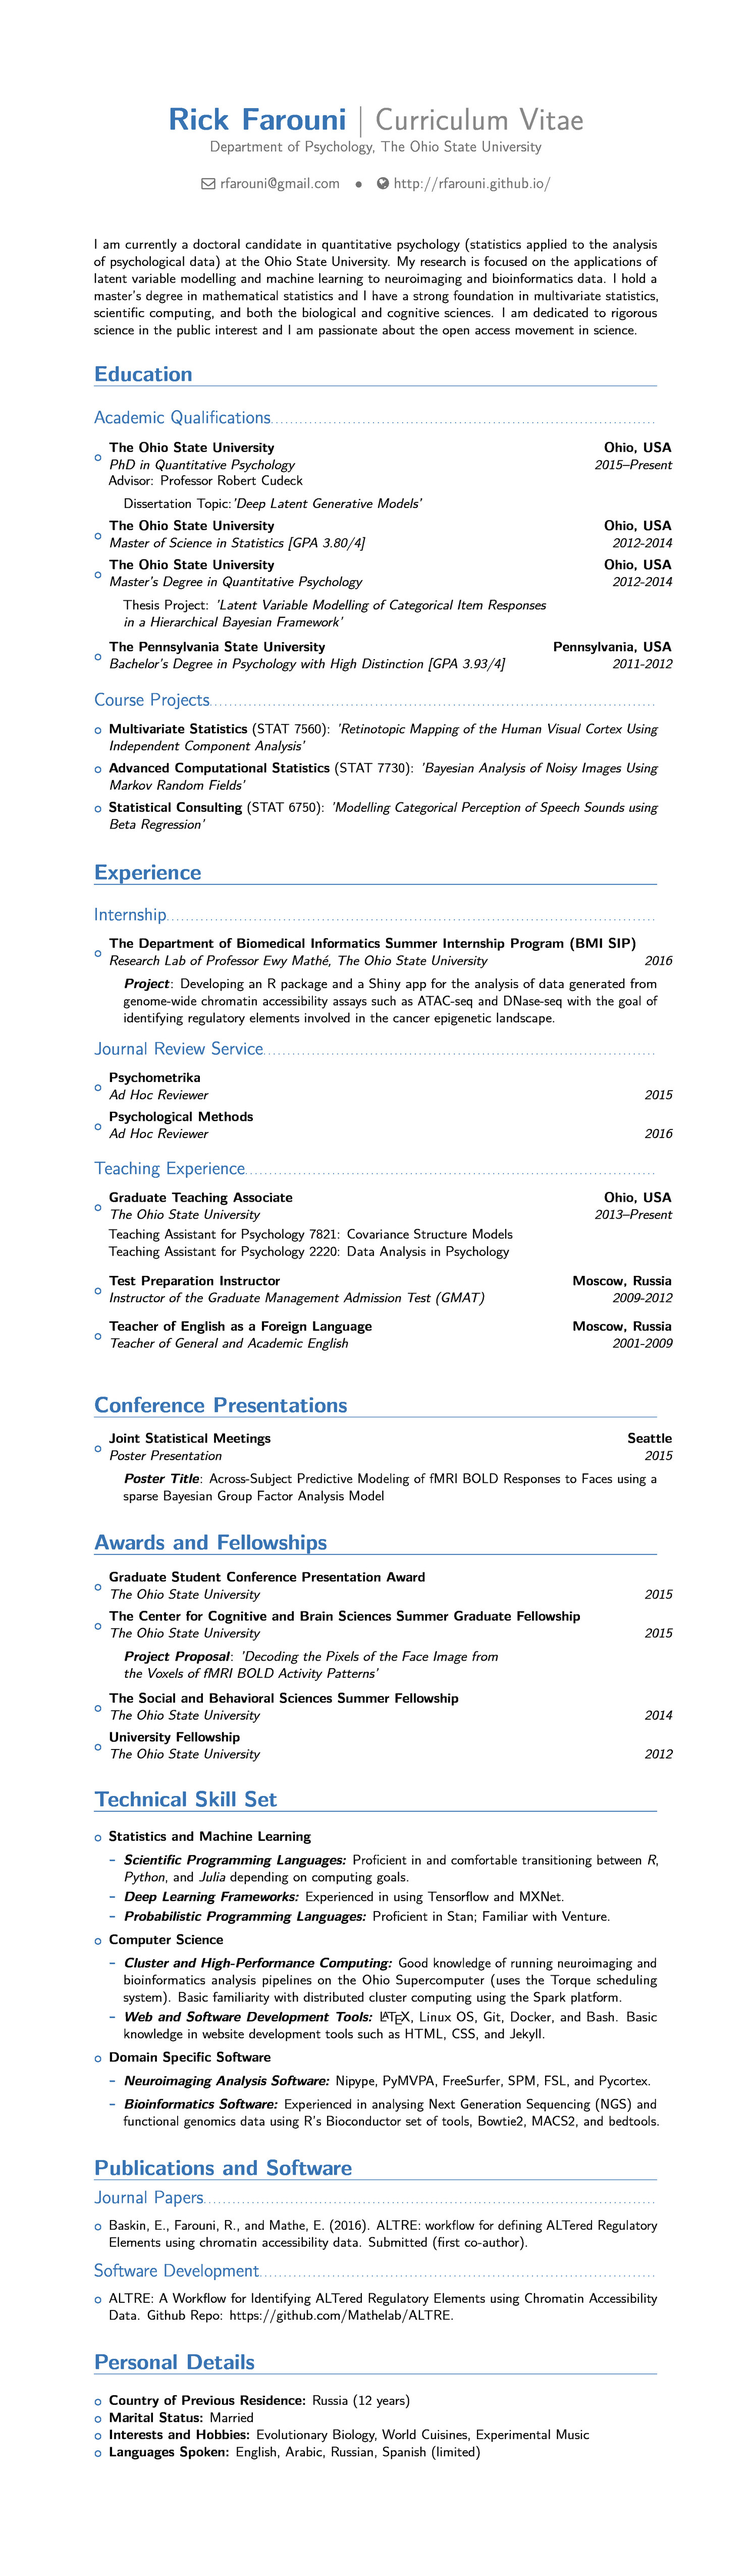
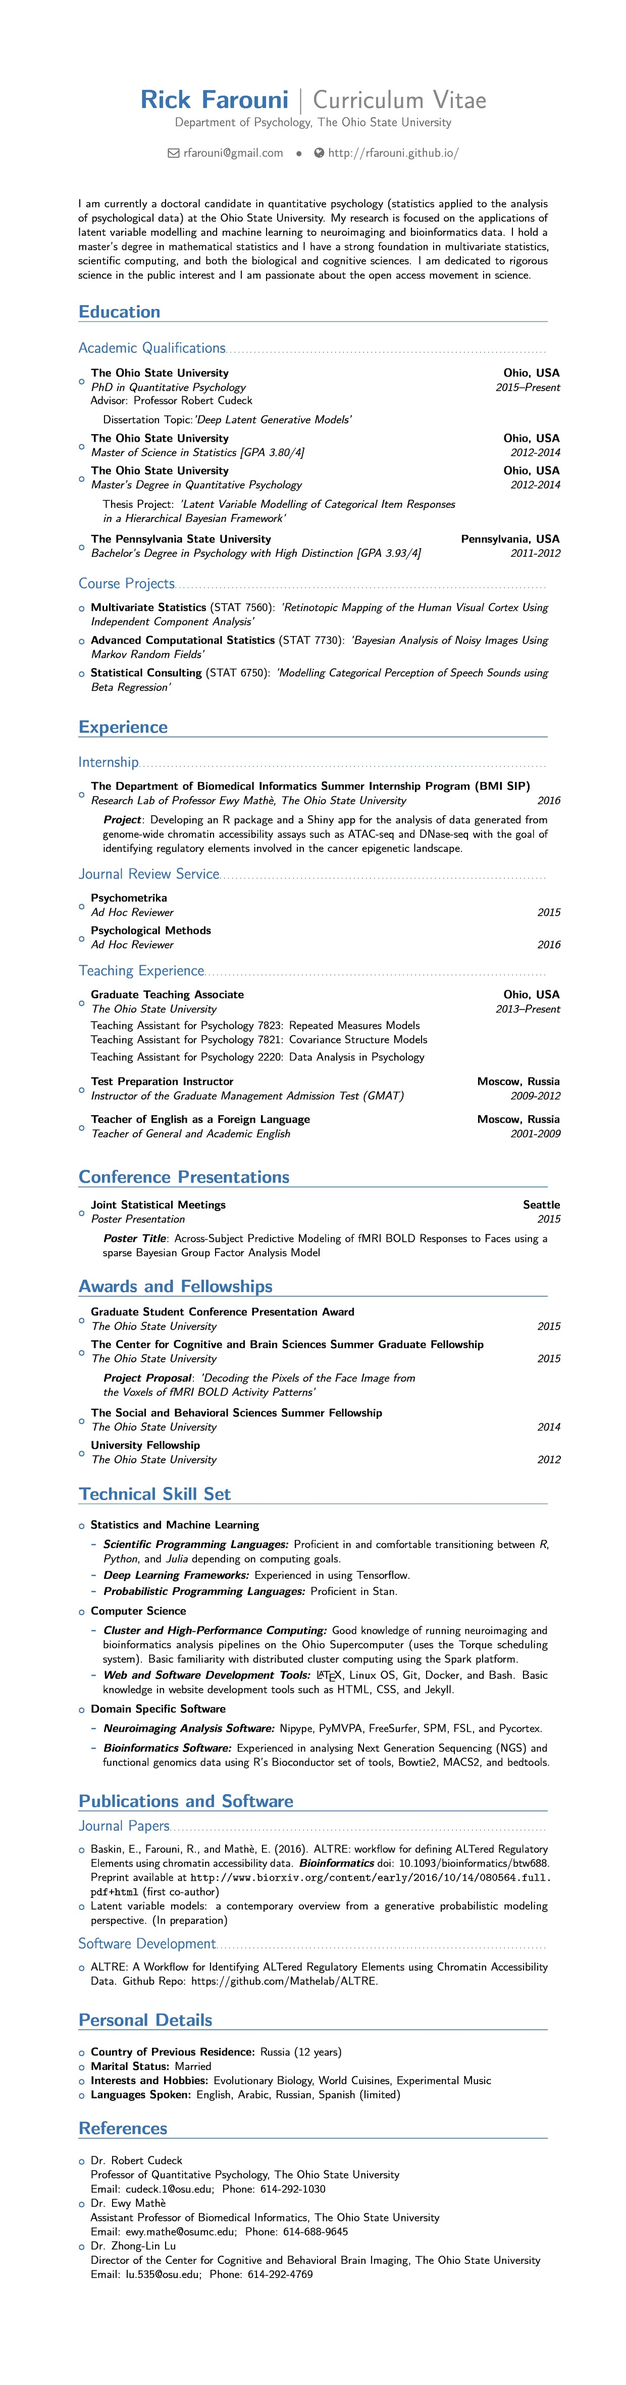
update CV

Changed region(s): [[0.1226, 0.0311, 0.8887, 0.9644], [0.8581, 0.6533, 0.8887, 0.6844], [0.521, 0.1867, 0.5516, 0.2178]]

diff --git a/CV.md b/CV.md
@@ -1,7 +1,7 @@
 ---
 layout: page
 title: Curriculum Vitae
-subtitle: last updated 09/21/2016
+subtitle: last updated 02/12/2017
 ---
 <div>
 <body>
